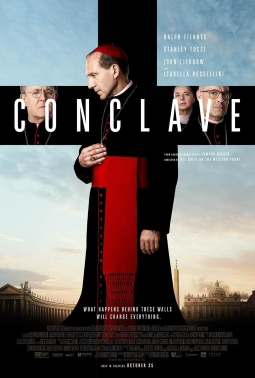
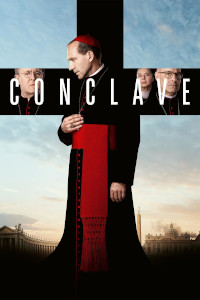
Fixed all the things I broke, Changed all the images to be the right aspect ratio, and some others

diff --git a/scripts.js b/scripts.js
@@ -130,7 +130,7 @@ function updateTicketTotal() {
 // Movie data array
 const movies = [
     {
-        title: "Avengers: End Game",
+        title: "AVENGERS: ENDGAME",
         length: "3h 1m",
         genre: "Action/Sci-Fi",
         synopsis: `The surviving members of the Avengers and their allies attempt to 
@@ -140,7 +140,7 @@ const movies = [
         poster: "images/movies/avengers-end-game.jpg"
     },
     {
-        title: "A Complete Unknown",
+        title: "A COMPLETE UNKNOWN",
         length: "2h 20m",
         genre: "Music, Drama",
         synopsis: `In the early 1960s, 19-year-old Bob Dylan arrives in New York with his 
@@ -150,7 +150,7 @@ const movies = [
         poster: "images/movies/a-complete-unknown.jpg"
     },
     {
-        title: "Conclave",
+        title: "CONCLAVE",
         length: "2h",
         genre: "Thriller/Mystery",
         synopsis: `Cardinal Lawrence has one of the world's most secretive and ancient events, 
@@ -162,7 +162,7 @@ const movies = [
         poster: "images/movies/conclave.jpg"
     },
     {
-        title: "Dune: Part Two",
+        title: "DUNE: PART TWO",
         length: "2h 46m",
         genre: "Sci-Fi/Adventure",
         synopsis: `Paul Atreides unites with Chani and the Fremen while seeking revenge 
@@ -171,10 +171,10 @@ const movies = [
         he must prevent a terrible future only he can foresee.`,
         rating: "PG",
         trailer: "https://www.youtube.com/watch?v=Way9Dexny3w",
-        poster: "images/movies/dune-2.jpeg"
+        poster: "images/movies/dune-2.jpg"
     },
     {
-        title: "Flow",
+        title: "FLOW",
         length: "1h 25m",
         genre: "Adventure/Family/Animation",
         synopsis: `Cat is a solitary animal, but as its home is devastated by a great flood, 
@@ -185,7 +185,7 @@ const movies = [
         poster: "images/movies/flow.jpg"
     },
     {
-        title: "I'm Still Here",
+        title: "I'M STILL HERE",
         length: "2h 15m",
         genre: "Drama/Historical drama",
         synopsis: `Eunice Paiva begins a lonely battle to learn the truth behind the disappearance of 
@@ -195,7 +195,7 @@ const movies = [
         poster: "images/movies/im-still-here.jpg"
     },
     {
-        title: "Nickel Boys",
+        title: "NICKEL BOYS",
         length: "2h 20m",
         genre: "Drama/Historical drama",
         synopsis: `Elwood Curtis' college dreams are shattered when he's sentenced to Nickel Academy, 
@@ -207,7 +207,7 @@ const movies = [
         poster: "images/movies/nickel-boys.jpg"
     },
     {
-        title: "Nosferatu",
+        title: "NOSFERATU",
         length: "2h 12m",
         genre: "Horror/Mystery",
         synopsis: `In the 1830s, estate agent Thomas Hutter travels to Transylvania for a fateful 
@@ -220,7 +220,7 @@ const movies = [
         poster: "images/movies/nosferatu.jpg"
     },
     {
-        title: "The Substance",
+        title: "THE SUBSTANCE",
         length: "2h 20m",
         genre: " Horror/Sci-fi",
         synopsis: `Fading actress Elisabeth Sparkle becomes distressed when her chauvinistic boss 
@@ -231,7 +231,7 @@ const movies = [
         poster: "images/movies/the-substance.jpg"
     },
     {
-        title: "Wicked",
+        title: "WICKED",
         length: "2h 40m",
         genre: "Musical/Fantasy",
         synopsis: `Misunderstood because of her green skin, a young woman named Elphaba forges an 
@@ -240,7 +240,7 @@ const movies = [
         a crossroad as their lives begin to take very different paths.`,
         trailer: "https://www.youtube.com/watch?v=6COmYeLsz4c",
         rating: "PG",
-        poster: "images/movies/wicked.jpg"
+        poster: "images/movies/wicked.png"
     }
 ];
 
@@ -248,9 +248,15 @@ const movies = [
 // Function to render movies
 function renderMovies() {
     const moviesGrid = document.querySelector(".movies-grid");
-    if (! moviesGrid) {
+
+    if (!(window.location.href).includes("select-movie.html")) {
         return
     }
+
+    if (!moviesGrid) {
+        return
+    }
+
     moviesGrid.innerHTML = ""; // Clear existing content
 
     movies.forEach(movie => {
@@ -263,7 +269,6 @@ function renderMovies() {
                     <img src="${movie.poster}" alt="${movie.title}" class="poster-image"/>
                 </div>
                 <div class="movie-title">${movie.title}</div>
-                <div class="movie-showtime">Next Showing: XX:XX</div>
             </a>
             
         `;
@@ -278,9 +283,39 @@ function renderMovies() {
 }
 
 
+function getMovie() {
+    if (!(window.location.href).includes("movie-details.html")) {
+        return
+    }
+    const selectedMovie = JSON.parse(localStorage.getItem('selectedMovie'));
+
+    if (selectedMovie) {
+        document.getElementsByClassName('movie-title')[0].textContent = selectedMovie.title;
+        document.getElementsByClassName('movie-length')[0].textContent = `LENGTH: ${selectedMovie.length}`;
+        document.getElementsByClassName('movie-genre')[0].textContent = `GENRE: ${selectedMovie.genre}`;
+        document.getElementsByClassName('movie-rating')[0].textContent = `RATED: ${selectedMovie.rating}`;
+        document.getElementsByClassName('movie-synopsis')[0].textContent = `SYNOPSIS: ${selectedMovie.synopsis}`;
+
+        // Update the poster image
+        const posterElement = document.getElementsByClassName('poster-image-large');
+        posterElement[0].src = selectedMovie.poster;
+        ;
+
+        // Update the trailer link
+        const trailerButton = document.getElementsByClassName('movie-trailer-btn');
+        trailerButton[0].onclick = () => {
+            window.open(selectedMovie.trailer, '_blank');
+        };
+    } else {
+        console.error('No movie data found in localStorage.');
+    }
+    
+}
+
 // Initialize when page loads
 document.addEventListener('DOMContentLoaded', function() {
     updateCartBadge();
     updateCartItems();
     renderMovies();
+    getMovie();
 });

diff --git a/movie-details.html b/movie-details.html
@@ -40,21 +40,15 @@
         
         <div class="movie-detail">
             <div class="movie-info">
-                <h3>SELECTED MOVIE TITLE</h3>
-                <p>LENGTH: -------</p>
-                <p>GENRE: -------</p>
-                <p>RATED: -------</p>
-                <p>SYNOPSIS:</p>
-                <p>------------------------------</p>
-                <p>------------------------------</p>
-                <p>------------------------------</p>
-                <p>------------------------------</p>
-                <p>------------------------------</p>
+                <h3 class = "movie-title"></h3>
+                <p class = "movie-length"></p>
+                <p class = "movie-genre"></p>
+                <p class = "movie-rating"></p>
+                <p class = "movie-synopsis"></p>
             </div>
-            
             <div class="movie-poster-large">
-                <img src="images/movies/movie1.png" alt="Selected Movie" class="poster-image-large">
-                <div class="movie-trailer-btn">TRAILER</div>
+                <img class="poster-image-large">
+                <div class="movie-trailer-btn">Watch Trailer!</div>
             </div>
         </div>
         

diff --git a/styles.css b/styles.css
@@ -286,7 +286,7 @@ button:hover {
 
 .poster-image {
     max-width: 100%;
-    height: 250px;
+    height: auto;
     object-fit: cover;
 }
 
@@ -318,8 +318,20 @@ button:hover {
 
 .movie-info {
     flex: 1;
+    height: 100%;
+    width: 200px;
 }
 
+.movie-title {
+    display: block;
+    font-size: 1.17em;
+    margin-block-start: 1em;
+    margin-block-end: 1em;
+    margin-inline-start: 0px;
+    margin-inline-end: 0px;
+    unicode-bidi: isolate;
+    border-top: none
+}
 .movie-poster-large {
     width: 200px;
     height: 300px;
@@ -350,6 +362,11 @@ button:hover {
 .movie-trailer-btn:hover {
     background-color: rgba(150, 150, 255, 1);
     transform: translateY(-2px);
+}
+
+.movie-synopsis {
+    overflow: hidden; 
+    text-overflow: ellipsis;
 }
 
 .showtime-section {

diff --git a/README.md b/README.md
@@ -1,2 +1,14 @@
 # DPII
 Movie Theatre Ticketing System
+
+## Image Sources
+- Avengers: End Game -> `https://image.tmdb.org/t/p/original/ulzhLuWrPK07P1YkdWQLZnQh1JL.jpg`
+- A Complete Unknown -> `https://image.tmdb.org/t/p/original/llWl3GtNoXosbvYboelmoT459NM.jpg`
+- Conclave -> `https://image.tmdb.org/t/p/original/m5x8D0bZ3eKqIVWZ5y7TnZ2oTVg.jpg`
+- Dune: Part Two -> `https://image.tmdb.org/t/p/original/1pdfLvkbY9ohJlCjQH2CZjjYVvJ.jpg`
+- Flow -> `https://image.tmdb.org/t/p/original/Ajnt7Ujk6zHTq4iG5CvDaI7TSlz.jpg`
+- I'm Still Here -> `https://image.tmdb.org/t/p/original/tgnTT3rTjaSrya9aFNFuDDMZiO9.jpg`
+- Nickel Boys -> `https://image.tmdb.org/t/p/original/fZ1RspUvUGYuqJ92PNcg0ToVxoA.jpg`
+- Nosferatu -> `https://image.tmdb.org/t/p/original/5qGIxdEO841C0tdY8vOdLoRVrr0.jpg`
+- The Substance -> `https://image.tmdb.org/t/p/original/cGm2qnmXx9tFabmzEIkJZjCJdQd.jpg`
+- Wicked -> `https://www.movieposters.com/products/wicked-mpw-144571`
